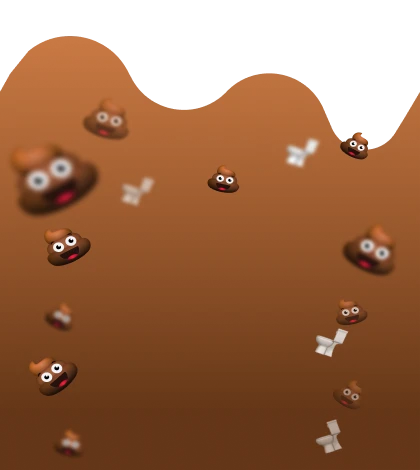
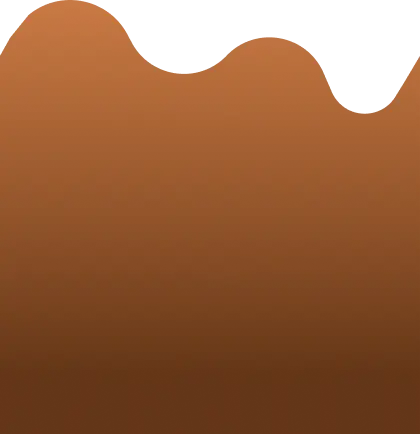
feat: new animation wave

diff --git a/src/components/views/Profile/Profile.tsx b/src/components/views/Profile/Profile.tsx
@@ -1,16 +1,17 @@
 import { useEffect, useState, useRef } from "react";
-import { useRecoilState } from "recoil";
+import { useRecoilState, useRecoilValue } from "recoil";
 import { useRouterView, useRouterModal } from "@kokateam/router-vkminiapps";
 
 import { Avatar, Placeholder, Title } from "@vkontakte/vkui";
 import { Group, Button, Cell, Badge, Spinner } from "src/components/__global";
 import { Icon24Gift, Icon24Add } from "@vkontakte/icons";
 import { ImgToiletPaper } from "src/assets/img";
+import ImgPoors from "./img/poors.webp";
 import * as Icons from "./svg";
 
 import { user, shop, dirtyUsers } from "src/storage/atoms";
 import { SelectorShopInventory } from "src/storage/selectors/shop";
-import { SelectorSnackbar } from "src/storage/selectors/main";
+import { SelectorSnackbar, getIsDesktop } from "src/storage/selectors/main";
 import { API, generateHash, sleep, declOfNum } from "src/modules";
 import bridge, { EAdsFormats } from "@vkontakte/vk-bridge";
 
@@ -35,7 +36,8 @@ const Profile = () => {
 
   const avatarRef = useRef<HTMLImageElement>(null);
   const itemsInventoryRefs = useRef<HTMLDivElement[]>([]);
-  const waveRef = useRef<HTMLImageElement>();
+  const waveRef = useRef<HTMLDivElement>();
+  const isDesktop = useRecoilValue(getIsDesktop);
 
   useEffect(() => {
     if (shopState || stateUser.name === "") return;
@@ -58,9 +60,6 @@ const Profile = () => {
   };
 
   const useItem = async (item: { id: number }, index: number) => {
-    await animationImageItem(index);
-    return;
-
     if (animateImg) return;
     let response = await api.shopItems.use({}, item.id);
     if (!response) return;
@@ -153,20 +152,32 @@ const Profile = () => {
       );
   };
 
-  const calculateHeightInPx = (percentage: number) => {
+  const calcHeightWave = (arrayPx: number[], percentage: number) => {
     if (percentage === 0) {
-      return 35;
+      return arrayPx[0];
+    } else if (percentage === 25) {
+      return arrayPx[1];
     } else if (percentage === 50) {
-      return 240;
+      return arrayPx[2];
+    } else if (percentage === 75) {
+      return arrayPx[3];
     } else if (percentage === 100) {
-      return 425;
+      return arrayPx[4];
     } else {
-      if (percentage > 0 && percentage < 50) {
-        // Линейная интерполяция между 0% и 50%.
-        return 35 + (percentage / 50) * (240 - 35);
+      if (percentage > 0 && percentage < 25) {
+        // Линейная интерполяция между 0% и 25%.
+        return arrayPx[0] + (percentage / 50) * (arrayPx[1] - arrayPx[0]);
+      } else if (percentage > 25 && percentage < 50) {
+        // Линейная интерполяция между 25% и 50%.
+        return arrayPx[1] + (percentage / 50) * (arrayPx[2] - arrayPx[1]);
+      } else if (percentage > 50 && percentage < 75) {
+        // Линейная интерполяция между 50% и 75%.
+        return arrayPx[2] + (percentage / 50) * (arrayPx[3] - arrayPx[2]);
       } else {
-        // Линейная интерполяция между 50% и 100%.
-        return 240 + ((percentage - 50) / 50) * (425 - 240);
+        // Линейная интерполяция между 75% и 100%.
+        return (
+          arrayPx[3] + ((percentage - 50) / 50) * (arrayPx[4] - arrayPx[3])
+        );
       }
     }
   };
@@ -222,21 +233,36 @@ const Profile = () => {
 
   return (
     <>
-      <div className="ocean">
-        <div className="wave"></div>
-      </div>
-
       <div className={"Profile"}>
         <Avatar src={stateUser.avatar} size={80} getRef={avatarRef} />
         <Title level={"2"}>
           Вы грязный <br /> на {stateUser.contamination}%
         </Title>
 
+        <img
+          src={ImgPoors}
+          alt={""}
+          style={{
+            bottom: `${calcHeightWave(
+              isDesktop
+                ? [-400, -370, -265, -170, 0]
+                : [-312, -290, -200, -100, 0],
+              stateUser.contamination
+            )}px`,
+          }}
+          className={"Profile__kakash"}
+        />
+
         <div
           //@ts-ignore
           ref={waveRef}
-          style={{ height: calculateHeightInPx(stateUser.contamination) }}
-          className={"Profile__kakash"}
+          style={{
+            height: calcHeightWave(
+              [0, 120, 240, 332, 425],
+              stateUser.contamination
+            ),
+          }}
+          className={"Profile__kakash-background"}
         />
 
         <div className={"Profile__action"}>

diff --git a/src/components/views/Profile/Profile.scss b/src/components/views/Profile/Profile.scss
@@ -14,7 +14,7 @@
     height: 310px;
     width: 100%;
     background-size: cover;
-    z-index: -1;
+    z-index: -3;
   }
 
   &:before {
@@ -30,15 +30,27 @@
     margin-top: 10px;
   }
 
+  .Profile__kakash,
+  .Profile__kakash-background {
+    transition: all 4s ease;
+  }
+
   .Profile__kakash {
     position: absolute;
     bottom: 0;
     z-index: -1;
 
+    width: 100%;
+    object-fit: cover;
+  }
+
+  .Profile__kakash-background {
+    position: absolute;
+    bottom: 0;
+    z-index: -2;
+
     background: url(./img/background_2.webp) repeat-x;
     width: calc(420px * 6);
-
-    transition: all 4s ease;
   }
 
   .Profile__action {
@@ -206,6 +218,13 @@
 
   .Cell .Cell__after img {
     height: 14px;
+  }
+}
+
+@media screen and (min-device-width: 750px) {
+  .Profile .Profile__kakash {
+    height: 400px;
+    width: 70%;
   }
 }
 
